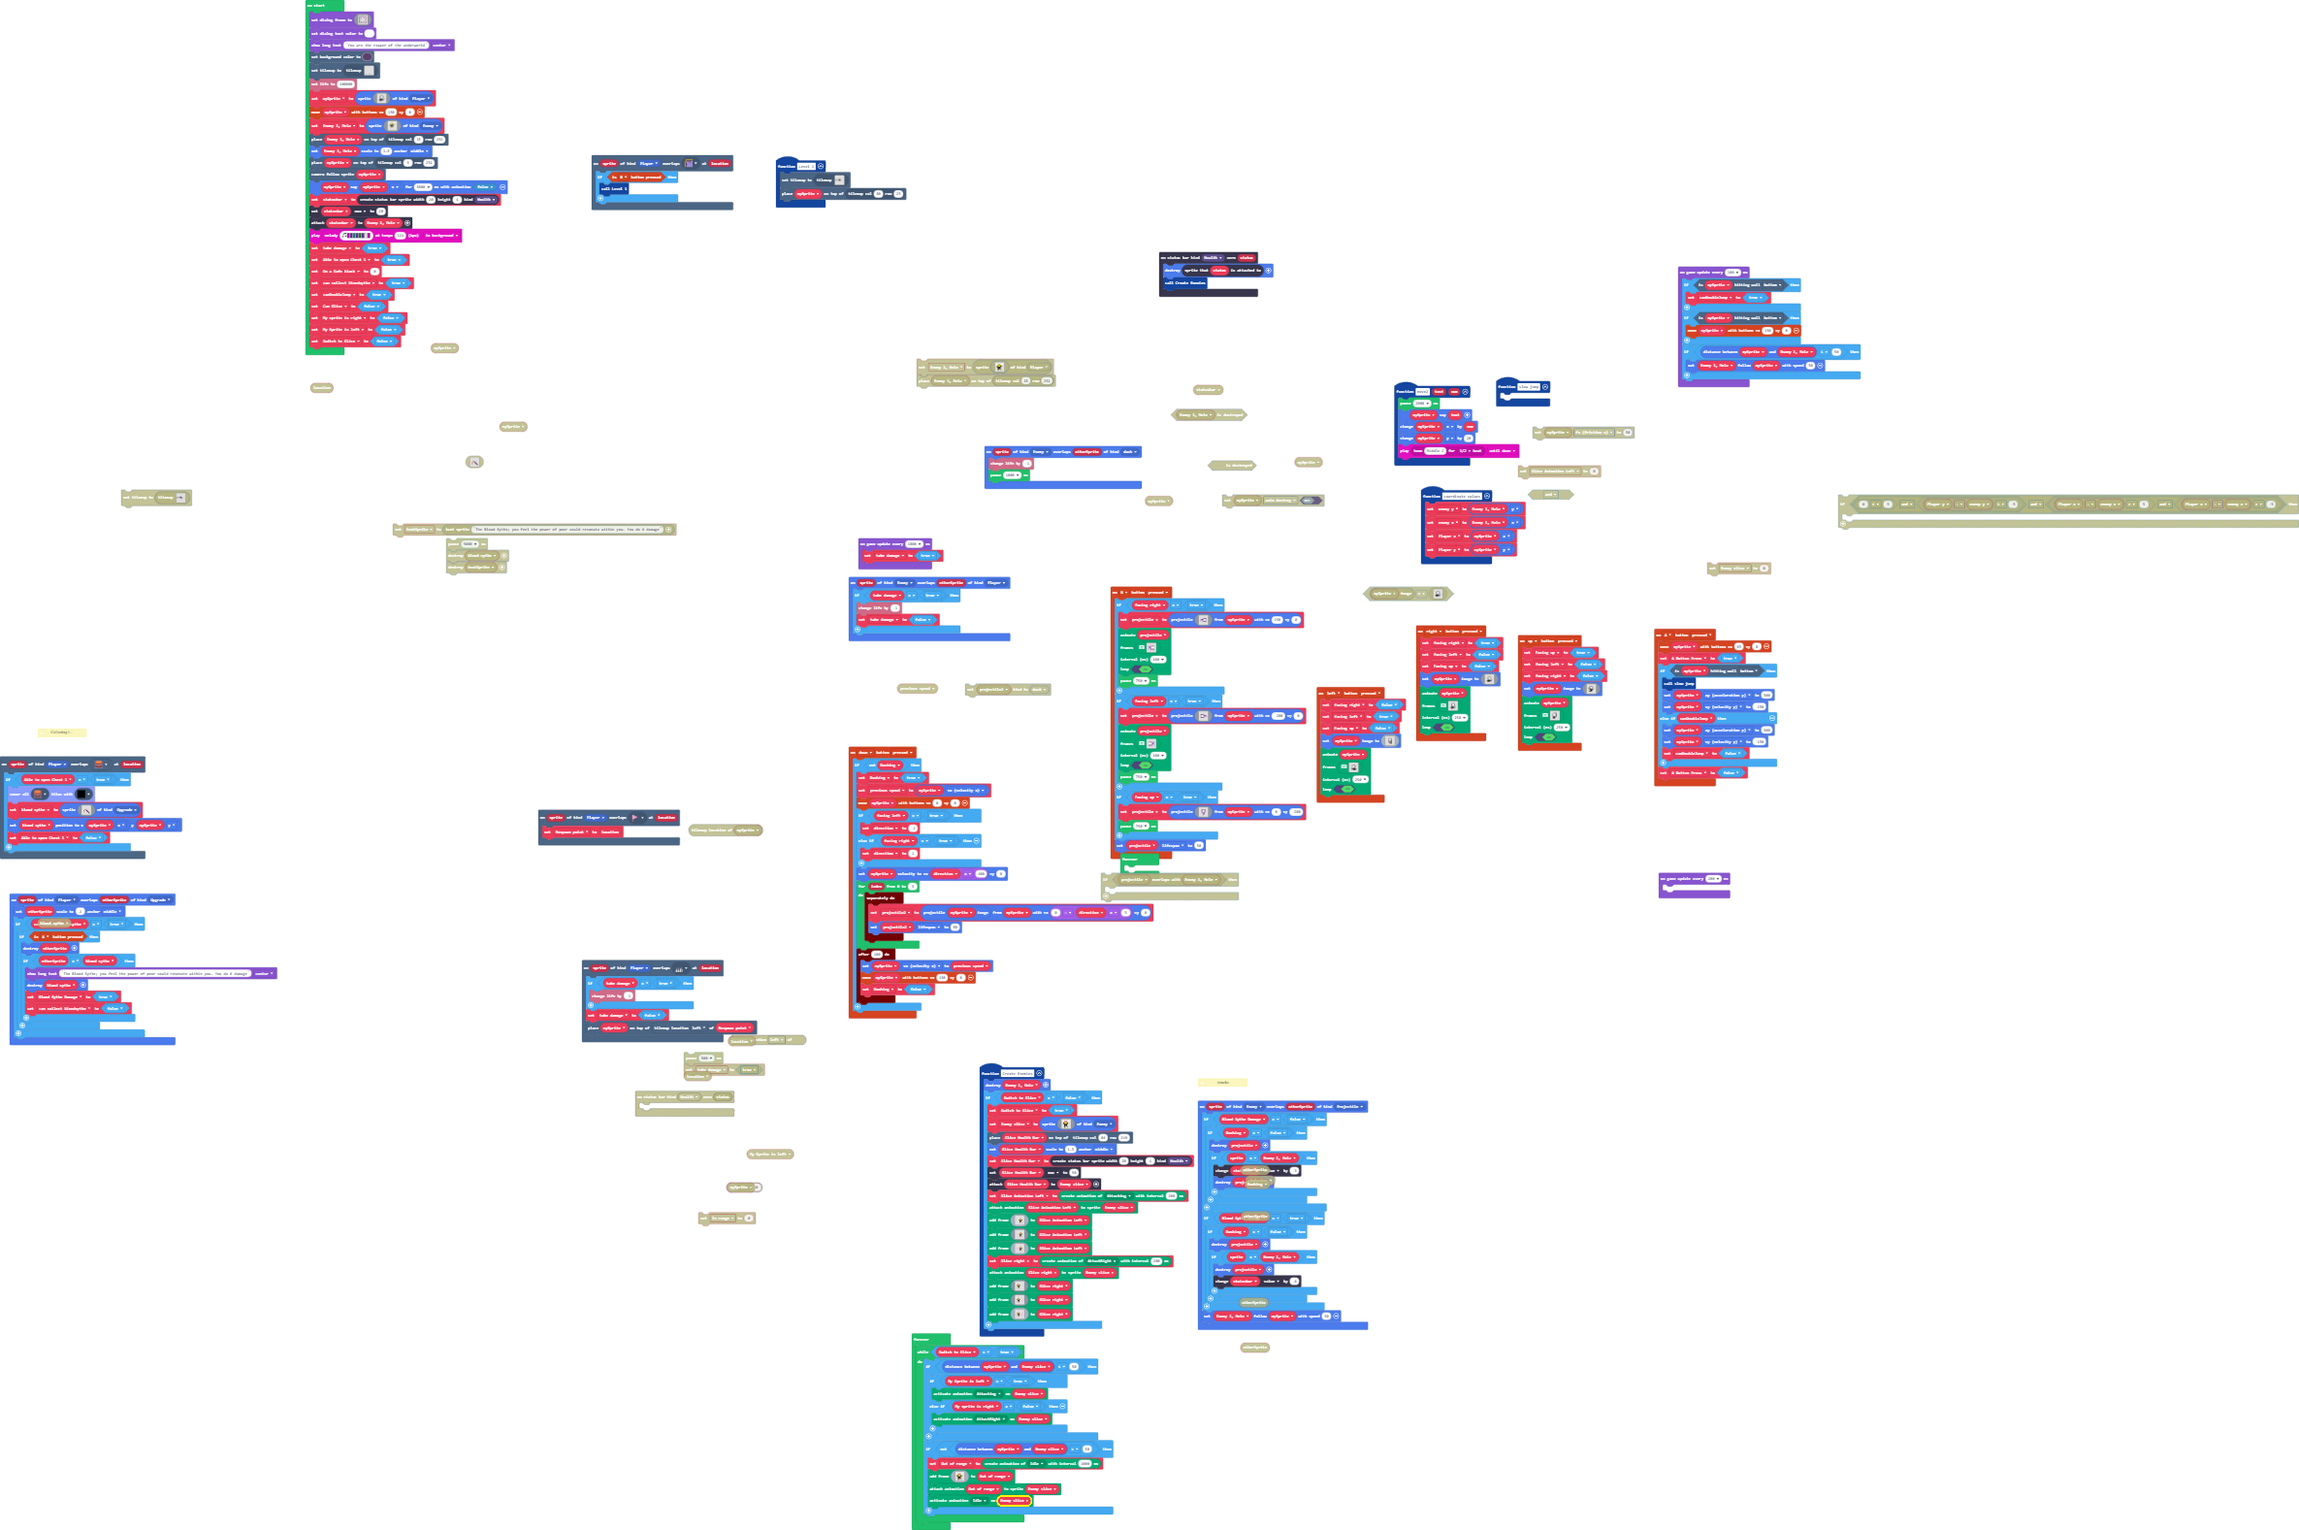
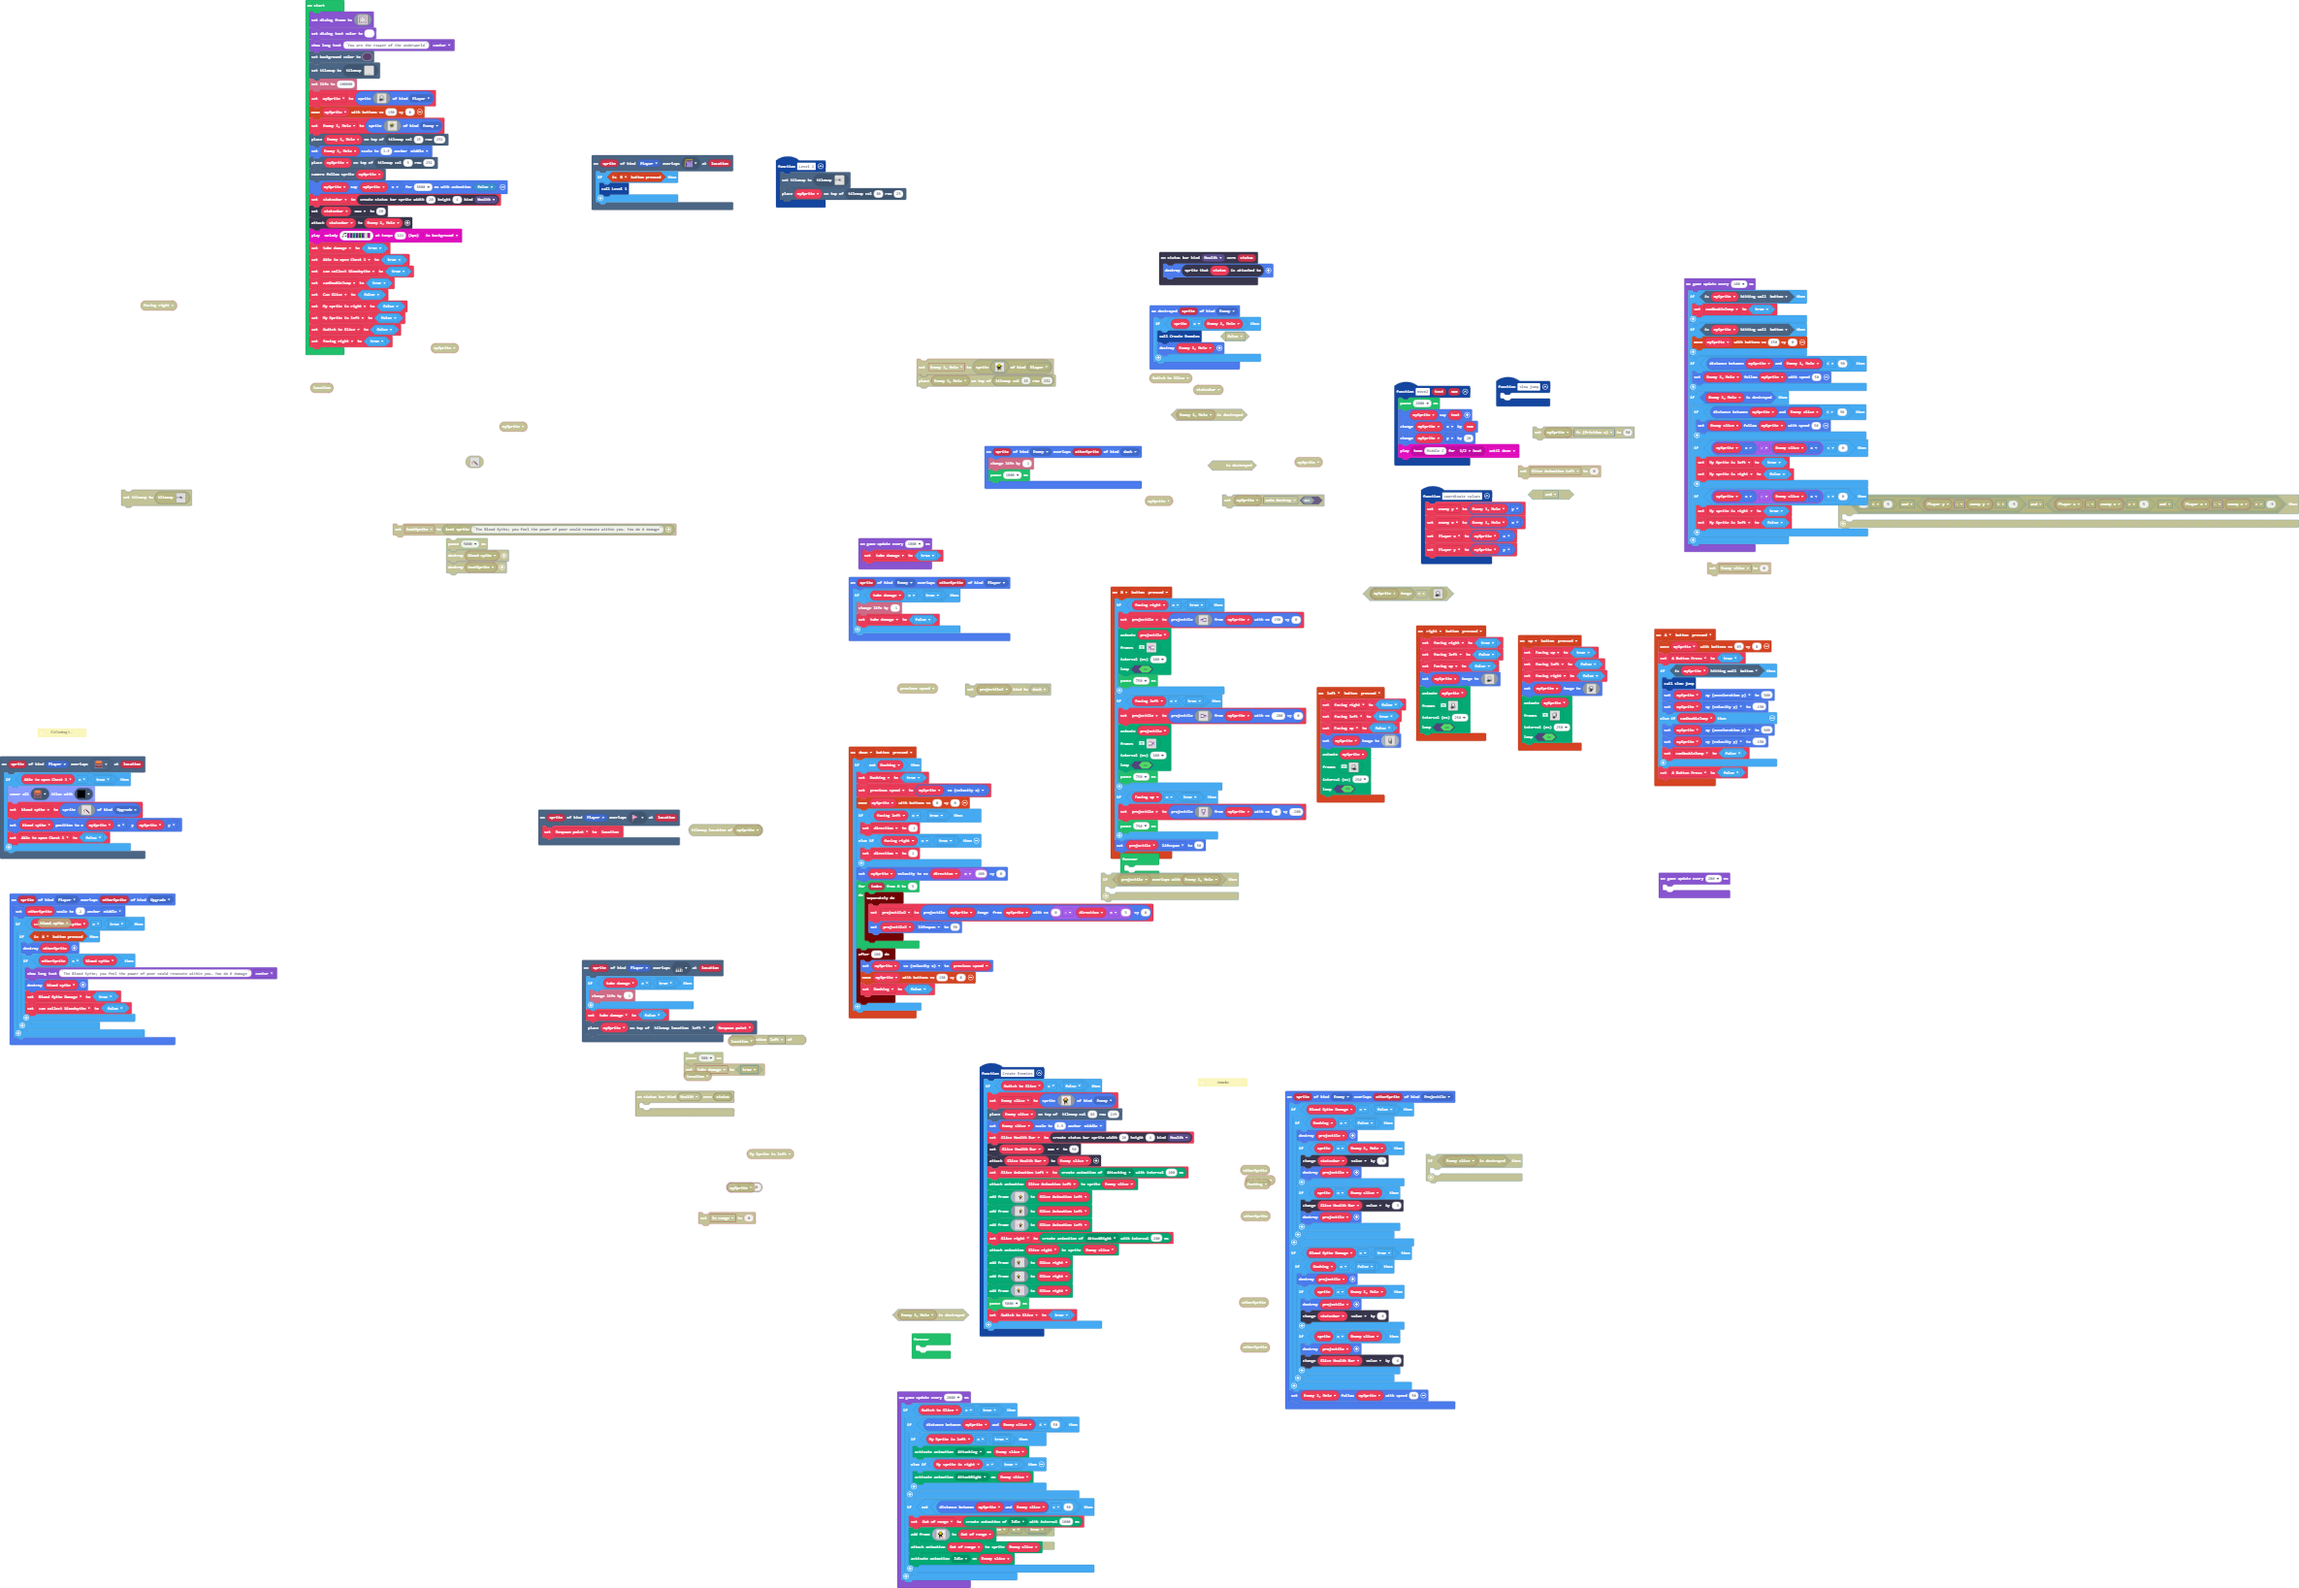
Update main.blocks, main.ts

diff --git a/main.ts b/main.ts
@@ -525,15 +525,16 @@ controller.left.onEvent(ControllerButtonEvent.Pressed, function () {
     true
     )
 })
-/**
- * Attacks
- */
 sprites.onOverlap(SpriteKind.Enemy, SpriteKind.Projectile, function (sprite, otherSprite) {
     if (Blood_Sythe_Damage == false) {
         if (Dashing == false) {
             sprites.destroy(projectile)
             if (sprite == Enemy_1_Mele) {
                 statusbar.value += -3
+                sprites.destroy(projectile)
+            }
+            if (sprite == Enemy_slice) {
+                Slice_Health_Bar.value += -3
                 sprites.destroy(projectile)
             }
         }
@@ -544,6 +545,10 @@ sprites.onOverlap(SpriteKind.Enemy, SpriteKind.Projectile, function (sprite, oth
             if (sprite == Enemy_1_Mele) {
                 sprites.destroy(projectile)
                 statusbar.value += -6
+            }
+            if (sprite == Enemy_slice) {
+                sprites.destroy(projectile)
+                Slice_Health_Bar.value += -6
             }
         }
     }
@@ -576,7 +581,6 @@ scene.onOverlapTile(SpriteKind.Player, sprites.dungeon.chestClosed, function (sp
 })
 statusbars.onZero(StatusBarKind.Health, function (status) {
     sprites.destroy(status.spriteAttachedTo())
-    Create_Enemies()
 })
 function Level_1 () {
     tiles.setCurrentTilemap(tilemap`level2`)
@@ -780,13 +784,14 @@ function coordinate_values () {
     Player_x = mySprite.x
     Player_y = mySprite.y
 }
+/**
+ * Attacks
+ */
 function Create_Enemies () {
-    sprites.destroy(Enemy_1_Mele)
     if (Switch_to_Slice == false) {
-        Switch_to_Slice = true
         Enemy_slice = sprites.create(assets.image`myImage2`, SpriteKind.Enemy)
-        tiles.placeOnTile(Slice_Health_Bar, tiles.getTileLocation(86, 249))
-        Slice_Health_Bar.setScale(1.5, ScaleAnchor.Middle)
+        tiles.placeOnTile(Enemy_slice, tiles.getTileLocation(86, 249))
+        Enemy_slice.setScale(1.5, ScaleAnchor.Middle)
         Slice_Health_Bar = statusbars.create(20, 4, StatusBarKind.Health)
         Slice_Health_Bar.max = 50
         Slice_Health_Bar.attachToSprite(Enemy_slice)
@@ -800,8 +805,16 @@ function Create_Enemies () {
         Slice_right.addAnimationFrame(assets.image`myImage7`)
         Slice_right.addAnimationFrame(assets.image`myImage9`)
         Slice_right.addAnimationFrame(assets.image`myImage8`)
+        pause(5000)
+        Switch_to_Slice = true
     }
 }
+sprites.onDestroyed(SpriteKind.Enemy, function (sprite) {
+    if (sprite == Enemy_1_Mele) {
+        Create_Enemies()
+        sprites.destroy(Enemy_1_Mele)
+    }
+})
 function move2 (text: string, num: number) {
     pause(2000)
     mySprite.sayText(text)
@@ -812,8 +825,6 @@ function move2 (text: string, num: number) {
 let Out_of_range: animation.Animation = null
 let Slice_right: animation.Animation = null
 let Slice_Animation_Left: animation.Animation = null
-let Slice_Health_Bar: StatusBarSprite = null
-let Enemy_slice: Sprite = null
 let Player_y = 0
 let Player_x = 0
 let enemy_x = 0
@@ -822,14 +833,16 @@ let projectile2: Sprite = null
 let direction = 0
 let previous_speed = 0
 let blood_sythe: Sprite = null
+let Slice_Health_Bar: StatusBarSprite = null
+let Enemy_slice: Sprite = null
 let Dashing = false
 let Blood_Sythe_Damage = false
 let A_Button_Press = false
 let projectile: Sprite = null
-let facing_right = false
 let facing_left = false
 let Facing_up = false
 let Respawn_point: tiles.Location = null
+let facing_right = false
 let Switch_to_Slice = false
 let canDoubleJump = false
 let can_collect_bloodsythe = false
@@ -896,25 +909,19 @@ statusbar.attachToSprite(Enemy_1_Mele)
 music.play(music.stringPlayable("C D F D G D - C ", 124), music.PlaybackMode.InBackground)
 take_damage = true
 Able_to_open_Chest_1 = true
-let On_a_Safe_block = 0
 can_collect_bloodsythe = true
 canDoubleJump = true
 let Can_Slice = false
 let My_sprite_is_right = false
 let My_Sprite_is_left = false
 Switch_to_Slice = false
-game.onUpdateInterval(1000, function () {
-    take_damage = true
-})
-forever(function () {
-	
-})
-forever(function () {
-    while (Switch_to_Slice == true) {
+facing_right = true
+game.onUpdateInterval(2000, function () {
+    if (Switch_to_Slice == true) {
         if (spriteutils.distanceBetween(mySprite, Enemy_slice) <= 50) {
             if (My_Sprite_is_left == true) {
                 animation.setAction(Enemy_slice, ActionKind.Attacking)
-            } else if (My_sprite_is_right == false) {
+            } else if (My_sprite_is_right == true) {
                 animation.setAction(Enemy_slice, ActionKind.AttackRight)
             }
         }
@@ -926,6 +933,15 @@ forever(function () {
         }
     }
 })
+game.onUpdateInterval(1000, function () {
+    take_damage = true
+})
+forever(function () {
+	
+})
+forever(function () {
+	
+})
 game.onUpdateInterval(100, function () {
     if (mySprite.isHittingTile(CollisionDirection.Bottom)) {
         canDoubleJump = true
@@ -935,6 +951,19 @@ game.onUpdateInterval(100, function () {
     }
     if (spriteutils.distanceBetween(mySprite, Enemy_1_Mele) <= 50) {
         Enemy_1_Mele.follow(mySprite, 50)
+    }
+    if (spriteutils.isDestroyed(Enemy_1_Mele)) {
+        if (spriteutils.distanceBetween(mySprite, Enemy_slice) <= 50) {
+            Enemy_slice.follow(mySprite, 50)
+        }
+        if (mySprite.x - Enemy_slice.x < 0) {
+            My_Sprite_is_left = true
+            My_sprite_is_right = false
+        }
+        if (mySprite.x - Enemy_slice.x > 0) {
+            My_sprite_is_right = true
+            My_Sprite_is_left = false
+        }
     }
 })
 game.onUpdateInterval(200, function () {
